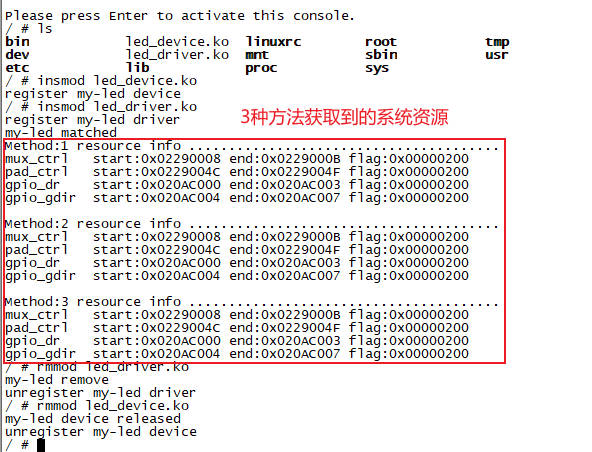
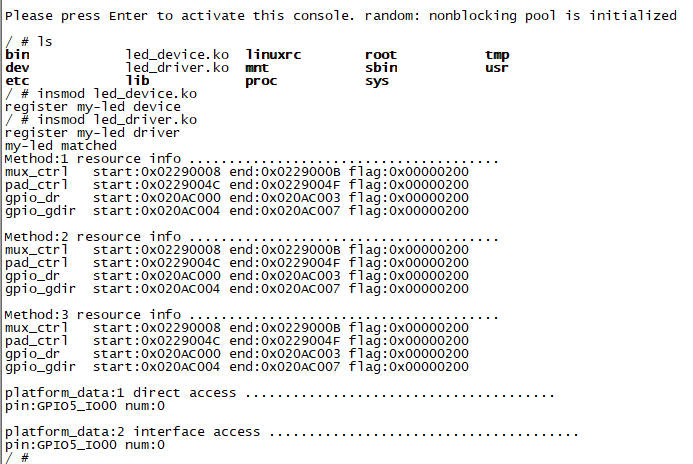
增加platform_data私有数据

diff --git a/006_platform总线/README.md b/006_platform总线/README.md
@@ -844,9 +844,217 @@ static int my_probe(struct platform_device *pdev)
 }
 ```
 
-### 4.3 实例代码
+### 4.3 `传递引脚号资源`
 
-#### 4.3.1 `platform设备`
+前面我们在`platform_device`中分别设置了`mux_ctrl、pad_ctrl、gpio5_dr、gpio5_gdir`这4个寄存器资源，然后在`platform_driver`获取这些寄存器资源。
+
+看起来问题都已经解决了，但其实具体的引脚号还没有传递。比如，我现在要通过`gpio5_gdir`设置led的引脚为输出，但引脚号不知道。这里问题就来了，引脚号并不对应具体的寄存器，我们不好通过`IORESOURCE_MEM`来映射。应该怎么办？
+
+#### 4.3.1 通过`IORESOURCE_IRQ`，把引脚号通过中断号来传递
+
+我们可以在`platform_device`的`resource`数组再增加一项，定义`IORESOURCE_IRQ`来传递GPIO引脚号:
+
+```c
+static struct resource my_res[] = {
+    [4] = {
+        .start  = 0,	// Led引脚号，GPIO5_IO00
+        .flags  = IORESOURCE_IRQ,
+        .name   = "gpio_pin"
+    }
+};
+```
+
+`platform_driver`驱动，可以通过`platform_get_resource()`获取:
+
+```c
+static int my_probe(struct platform_device *pdev)
+{
+    struct resource	*res;
+    printk(KERN_INFO "%s matched\n", pdev->name);
+
+    res = platform_get_resource(pdev, IORESOURCE_IRQ, 4);
+	unsigned int gpio_pin = res->start;	// 获取GPIO引脚号
+
+    return 0;
+}
+```
+
+这里其实有点疑问。`IORESOURCE_IRQ`能否标识普通GPIO引脚？
+
+*可以，但并非最佳实践。*
+
+1. 可行性
+
+	通过将GPIO引脚编码到`IORESOURCE_IRQ`的`.start`字段，可实现GPIO引脚传递。
+	
+2. 局限性
+
+	+ 语义混淆: IRQ资源本应用于中断处理，直接传递GPIO编号会导致代码可读性下降
+	+ 功能缺失: 无法直接支持GPIO方向设置、电平读写等基础操作，需要手动操作寄存器
+	+ 兼容性风险: 与GPIO子系统的标准化接口不兼容
+
+3. 推荐替代方案: 自定义`platform_data`传递硬件信息
+
+4. 应用场景选择建议
+
+| 场景 | 推荐资源类型 | 理由 |
+| - | - | - |
+| 外设寄存器访问 | `IORESOURCE_MEM` | 直接映射物理地址，符合内存操作语义 |
+| 中断事件处理 | `IORESOURCE_IRQ` | 明确中断触发机制，支持回调函数注册 |
+| GPIO引脚控制(非中断) | 自定义数据`platform_data` | 避免资源类型滥用，兼容Linux标准化接口 |
+
+#### 4.3.2 自定义数据`platform_data`
+
+##### 4.3.2.1 什么是自定义数据`platform_data`
+
+什么是自定义数据`platform_data`？我们看下之前的做法。
+
+```c
+static struct platform_device my_device = {
+    .name = "my-led",
+    .id = -1,
+    .num_resources = ARRAY_SIZE(my_res),
+    .resource = my_res,
+    .dev = {
+        .release = my_release
+    },
+};
+```
+
+`platform_device`中有2个重要的成员:
+
+1. `struct resource	*resource`: 资源数组，对应我们的寄存器映射
+2. `struct device	dev`: 通用设备模型。里面有个成员可以自定义数据`platform_data`
+
+	```c
+	struct device {
+		/* 其他成员 */
+		void		*platform_data;	/* Platform specific data, device
+						   core doesn't touch it */
+		/* 其他成员 */
+	};
+	```
+
+前面我们提到，内核在执行`platform_driver`驱动的`probe()`函数时，会把`platform_device`作为参数传入。那么我们就可以获取到成员`struct device dev`里面的`platform_data`自定义数据。
+
+##### 4.3.2.2 `platform_data`作用和适用场景
+
+`struct device`结构体的`platform_data`成员，是Linux设备驱动模型中用于传递板级硬件配置信息的核心机制。
+
++ *核心作用*
+
+`platform_data`是一个`void *`类型指针，用于存储与特定硬件平台相关的配置数据。这些数据由板级支持包(BSP)定义，驱动通过解析这些数据完成对硬件的适配。
+
+1. `解耦驱动与硬件细节`: 将硬件相关的参数从驱动代码中剥离，提升驱动的跨平台复用性
+2. `传递非标准化资源`: 描述无法通过标准资源`resource`表达的硬件特性，比如GPIO引脚号、外设工作模式(网卡速率)
+
++ *典型适用场景*
+
+1. 板级硬件差异适配
+
+	+ 在嵌入式开发中，同一芯片的外设(网卡、GPIO控制器)在不同电路板上的连接方式可能不同。通过`platform_data`传递差异化参数
+	+ 示例: DM9000网卡在不同开发板上，可能使用8位或16位数据总线模式。在BSP中定义`dm9000_plat_data`结构体，通过`platform_data`传递flags标志，驱动根据此标志初始化总线宽度
+	
+2. 传递非标准外设参数
+
+	+ 某些设备的配置无法通过`struct resource`完全描述，需要自定义数据结构
+	+ 示例: LED设备的板级配置(GPIO编号、极性)。定义`gpio_led_platform_data`结构体，包含每个LED的GPIO编号、名称和触发条件，驱动通过`platform_data`读取并初始化LED控制器
+	
+3. 设备树的替代方案
+
+	+ 在未使用设备树的传统内核中，`platform_data`是传递硬件描述的主要方式
+	+ 示例: ARM平台通过BSP代码(arch/arm/mach-*/board-*.c)定义`platform_device`，并将设备数中类似的信息(如时钟频率、DMA通道)封装到`platform_data`中
+
++ *操作流程*
+
+1. BSP定义数据结构: 在板级代码中声明自定义结构体，填充硬件参数
+
+	```c
+	struct mydev_platdata {
+		u32 reg_base;
+		int irq_num;
+		bool use_dma;
+	};
+	```
+	
+2. 绑定到`platform_device`: 在注册`platform_device`时，直接把`mydev_platdata`地址设置给`platform_data`，或通过接口`platform_device_add_data()`来设置，原理一样
+
+	```c
+	struct mydev_platdata config = {.reg_base = 0xFE00, .irq_num = 32};
+	
+	/* 方法1: 直接添加 */
+	pdev->dev.platform_data = &config;
+	
+	/* 方法2: 通过接口添加 */
+	platform_device_add_data(pdev, &config, sizeof(config));
+	```
+
+3. 驱动读取数据: 在驱动的`probe()`函数中，通过`dev_get_platdata()`获取并解析，也可以直接访问结构体成员来获取
+
+	```c
+	/* 方法1: 直接获取 */
+	struct mydev_platdata *pdata = pdev->dev.platform_data;
+	
+	/* 方法2: 通过接口获取 */
+	struct mydev_platdata *pdata = dev_get_platdata(&pdev->dev);
+	if (pdata->use_dma) 
+		setup_dma_channels();
+	```
+
++ *设计建议*
+
+	1. 数据封装原则: 将硬件相关的所有可变参数，集中到单一结构体中，避免分散定义
+	2. 生命周期管理: `platform_data`通常由BSP静态分配，驱动不应修改其内容，仅作只读访问
+
+##### 4.3.2.3 `platform_data`传递GPIO引脚号
+
+我们在`platform_device`中定义引脚号的结构体，并设置给`pdev->dev.platform_data`。
+
+```c
+struct gpio_pin_info {
+    u32 pin;
+    const char *label;
+};
+
+static const struct gpio_pin_info my_pin = {
+    .pin = 0,
+    .label = "GPIO5_IO00"
+};
+
+static struct platform_device my_device = {
+    .name = "my-led",
+    .id = -1,
+    .num_resources = ARRAY_SIZE(my_res),
+    .resource = my_res,
+    .dev = {
+        .platform_data = &my_pin,   // 设置platfoem
+        .release       = my_release
+    },
+};
+```
+然后在`platform_driver`中获取`platform_data`，取出引脚号。
+
+```c
+static int my_probe(struct platform_device *pdev)
+{
+    struct gpio_pin_info *pin;
+    printk(KERN_INFO "%s matched\n", pdev->name);
+
+    printk(KERN_INFO "\nplatform_data:1 direct access .......................................\n");
+    pin = pdev->dev.platform_data;
+    printk(KERN_INFO "pin:%s num:%d\n", pin->label, pin->pin);
+
+    printk(KERN_INFO "\nplatform_data:2 interface access .......................................\n");
+    pin = dev_get_platdata(&pdev->dev);
+    printk(KERN_INFO "pin:%s num:%d\n", pin->label, pin->pin);
+
+    return 0;
+}
+```
+	
+### 4.4 实例代码
+
+#### 4.4.1 `platform设备`
 
 ```c
 #include <linux/init.h>
@@ -888,6 +1096,16 @@ static struct resource my_res[] = {
     }
 };
 
+struct gpio_pin_info {
+    u32 pin;
+    const char *label;
+};
+
+static const struct gpio_pin_info my_pin = {
+    .pin = 0,
+    .label = "GPIO5_IO00"
+};
+
 static void my_release(struct device *dev)
 {
     struct platform_device *pdev = container_of(dev, struct platform_device, dev);
@@ -900,7 +1118,8 @@ static struct platform_device my_device = {
     .num_resources = ARRAY_SIZE(my_res),
     .resource = my_res,
     .dev = {
-        .release = my_release
+        .platform_data = &my_pin,
+        .release       = my_release
     },
 };
 
@@ -924,7 +1143,7 @@ MODULE_LICENSE("GPL");
 MODULE_AUTHOR("ding");
 ```
 
-#### 4.3.2 `platform驱动`
+#### 4.4.2 `platform驱动`
 
 ```c
 #include <linux/init.h>
@@ -933,10 +1152,16 @@ MODULE_AUTHOR("ding");
 #include <linux/resource.h>
 #include <linux/platform_device.h>
 
+struct gpio_pin_info {
+    u32 pin;
+    const char *label;
+};
+
 static int my_probe(struct platform_device *pdev)
 {
     int i;
     struct resource	*res;
+    struct gpio_pin_info *pin;
     printk(KERN_INFO "%s matched\n", pdev->name);
 
     printk(KERN_INFO "Method:1 resource info .......................................\n");
@@ -960,6 +1185,14 @@ static int my_probe(struct platform_device *pdev)
     printk(KERN_INFO "%-10s start:0x%08X end:0x%08X flag:0x%08X\n", res->name, res->start, res->end, res->flags);
     res = platform_get_resource_byname(pdev, IORESOURCE_MEM, "gpio_gdir");
     printk(KERN_INFO "%-10s start:0x%08X end:0x%08X flag:0x%08X\n", res->name, res->start, res->end, res->flags);
+
+    printk(KERN_INFO "\nplatform_data:1 direct access .......................................\n");
+    pin = pdev->dev.platform_data;
+    printk(KERN_INFO "pin:%s num:%d\n", pin->label, pin->pin);
+
+    printk(KERN_INFO "\nplatform_data:2 interface access .......................................\n");
+    pin = dev_get_platdata(&pdev->dev);
+    printk(KERN_INFO "pin:%s num:%d\n", pin->label, pin->pin);
 
     return 0;
 }
@@ -1003,9 +1236,10 @@ module_exit(my_exit);
 
 MODULE_LICENSE("GPL");
 MODULE_AUTHOR("ding");
+
 ```
 
-### 4.4 实测结果
+### 4.5 实测结果
 
 实测3种方式，获取到的资源内容一致。
 
